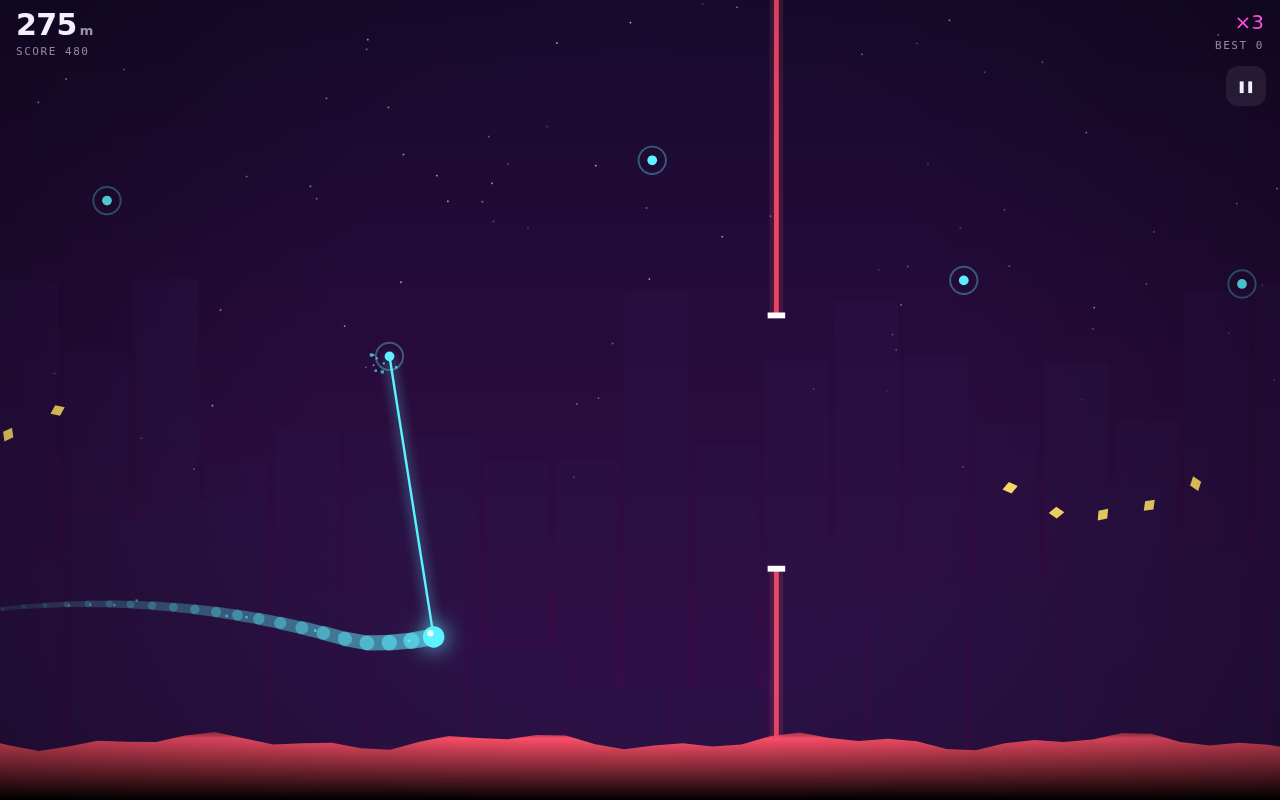
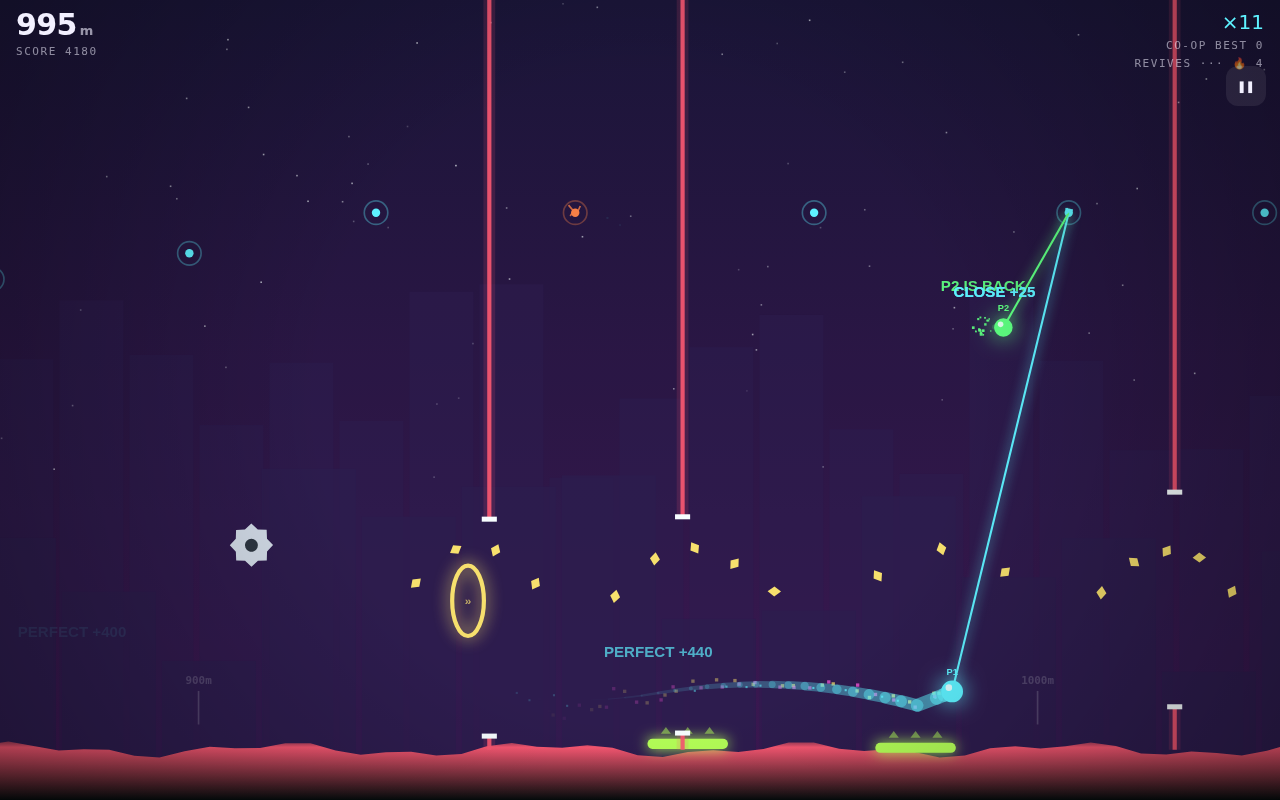
Tether: power-ups, boost rings, pads, drones, overdrive, missions; drag -75%
Air drag past cruise cut by 75% and the top speed raised, so speed
builds and stays. New in the world: boost rings on the flight path,
bounce pads on the lava, crumbling anchors, patrol drones, and three
power-ups (shield that even survives lava, shard magnet, x2 score).
A x8 combo starts a six-second OVERDRIVE that smashes hazards. Fifteen
missions (three active) pay shards; top-five runs on the title.

Fixes from bot playtesting:
- Rings, shards, power-ups, laser gaps and saws were placed for a swing
  far shallower than the real one (ropes self-shorten to just above the
  lava); everything is now placed on the actual swing path
- A revived/bounced/snapped player kept the start-rope guard forever, so
  quick releases were ignored; the guard now only covers the first rope
- A stale end-of-run timer could end a new run at 0m

Claude-Session: https://claude.ai/code/session_017tu8iXWCpCpy5vvqjdKmEs

diff --git a/tether.html b/tether.html
@@ -87,6 +87,9 @@ footer a{color:var(--dim)}
       <div><b>Your ghost</b><span>Your best run is recorded 20 times a second and races you as a ghost on every new attempt. The daily run gives everyone the same world all day, with its own ghost.</span></div>
       <div><b>Co-op</b><span>Two players, one screen. Player 1 uses the mouse (or the left half of a phone), and player 2 is green on the space bar (or the right half). Fall off the back of the screen and you're out. You have three shared revives, and when one is used you respawn on your partner's rope. If you both PERFECT within half a second, that's a HIGH FIVE.</span></div>
       <div><b>Fair worlds</b><span>Every run starts on a rope. Anchors are always 210 to 320 apart and within reach of the last one. Laser gaps sit on the swing path, and a rope shortens itself before it can swing you into the lava.</span></div>
+      <div><b>Things in the sky</b><span>Gold boost rings speed you up. Green pads on the lava bounce you back up. Orange cracked anchors snap a second after you grab them. Patrol drones guard the gaps. Power-ups: a shield that survives one hit (even lava), a shard magnet, and double score.</span></div>
+      <div><b>Overdrive</b><span>Chain a ×8 combo and you catch fire for six seconds, smashing straight through lasers, saws and drones for points.</span></div>
+      <div><b>Missions &amp; top runs</b><span>Three missions at a time, 15 in all, each paying shards. Your top five runs are kept on the title screen.</span></div>
       <div><b>Orbs</b><span>Shards buy nine orbs, including a shark one. You know why.</span></div>
     </div>
   </section>
@@ -106,183 +109,224 @@ footer a{color:var(--dim)}
   <p>Designed and built by Claude for Anders, unprompted, October 2026.<br><a href="index.html">back to the Atlas of Systems</a></p>
 </footer>
 <script type="application/octet-stream" id="mf-blob">
[176 lines of base64/hex data omitted]
-iwcfr3qruAU=
[218 lines of base64/hex data omitted]
 </script>
 <script src="assets/seal.js"></script>
 <script>
